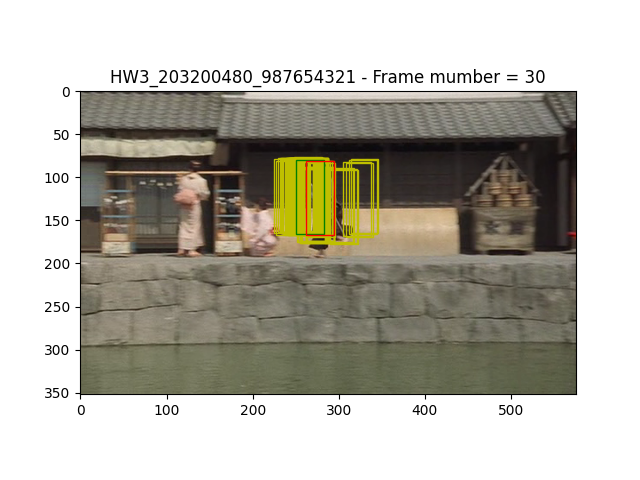
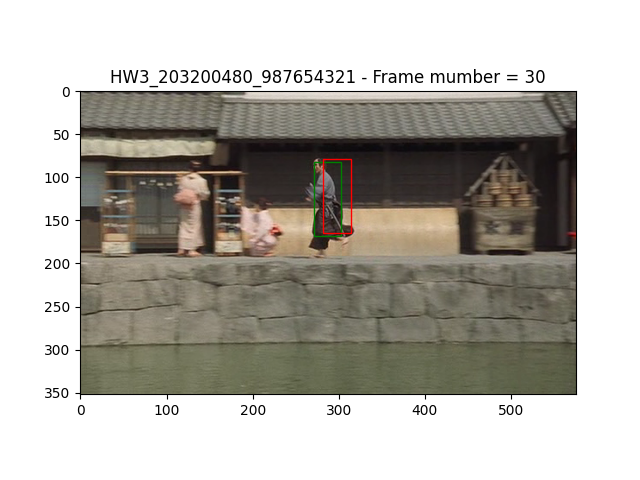
finally working model

Changed region(s): [[0.4062, 0.3125, 0.5938, 0.5312]]

diff --git a/particle_filter.py b/particle_filter.py
@@ -29,10 +29,7 @@ s_initial = [297,    # x center
                0]    # velocity y
 
 
-sigma_x =5
-sigma_y =1.5
-sigma_vx =0
-sigma_vy =0
+
 
 def predict_particles(s_prior: np.ndarray) -> np.ndarray:
     """Progress the prior state with time and add noise.
@@ -45,13 +42,18 @@ def predict_particles(s_prior: np.ndarray) -> np.ndarray:
     Return:
         state_drifted: np.ndarray. The prior state after drift (applying the motion model) and adding the noise.
     """
-    s_prior = s_prior.astype(float)
+    #s_prior = s_prior.astype(float)
     state_drifted = s_prior
     """ DELETE THE LINE ABOVE AND:
     INSERT YOUR CODE HERE."""
+    sigma_x =3
+    sigma_y =1.5
+    sigma_vx =0.5
+    sigma_vy = 0.1
     #first we applay the motion
-    state_drifted[:2, :] = state_drifted[:2, :] + state_drifted[4:, :]
-
+    #state_drifted[:2, :] = state_drifted[:2, :] + state_drifted[4:, :]
+    state_drifted[:1, : ]= state_drifted[:1, : ]+ state_drifted[4, :]
+    state_drifted[1:2, :]= state_drifted[1:2, :]+ state_drifted[5, :]
     # now we add the noise
     state_drifted[:1, : ] = state_drifted[:1, : ] + np.round(np.random.normal(0, sigma_x, size=(1, 100)))
     state_drifted[1:2, :] = state_drifted[1:2, :] + np.round(np.random.normal(0, sigma_y, size=(1, 100)))
@@ -72,8 +74,8 @@ def compute_normalized_histogram(image: np.ndarray, state: np.ndarray) -> np.nda
     Return:
         hist: np.ndarray. histogram of quantized colors.
     """
-    state = np.floor(state)
-    state = state.astype(int)
+    #state = np.floor(state)
+    #state = state.astype(int)
     
     """ DELETE THE LINE ABOVE AND:
         INSERT YOUR CODE HERE."""
@@ -119,28 +121,7 @@ def compute_normalized_histogram(image: np.ndarray, state: np.ndarray) -> np.nda
     hist = hist/np.sum(hist)
 
     return hist
-    '''
-    x, y, width, height, x_vel, y_vel = s_initial
-
-    temp_image = image[y - height:y + height, x - width:x + width]
-
-    b, g, r = cv2.split(temp_image)
-
-    b //= 16
-    g //= 16
-    r //= 16
-
-    histogram = np.zeros((16, 16, 16))
-
-    for i in range(len(temp_image)):
-        for j in range(len(temp_image[0])):
-            histogram[b[i, j]][g[i, j]][r[i, j]] += 1
-
-    histogram = histogram.reshape((4096, 1))
-    histogram /= np.sum(histogram)
-
-    return histogram
-    '''
+   
 
 def sample_particles(previous_state: np.ndarray, cdf: np.ndarray) -> np.ndarray:
     """Sample particles from the previous state according to the cdf.
@@ -324,7 +305,7 @@ def main():
         images_processed += 1
         #$$$$ DELETE THIS CHANGE%%%%%%%%########
         #if 0 == images_processed%10:
-        if 0 == images_processed%2:
+        if 0 == images_processed%10:
             frame_index_to_avg_state, frame_index_to_max_state = show_particles(
                 current_image, S, W, images_processed, ID, frame_index_to_avg_state, frame_index_to_max_state)
 
